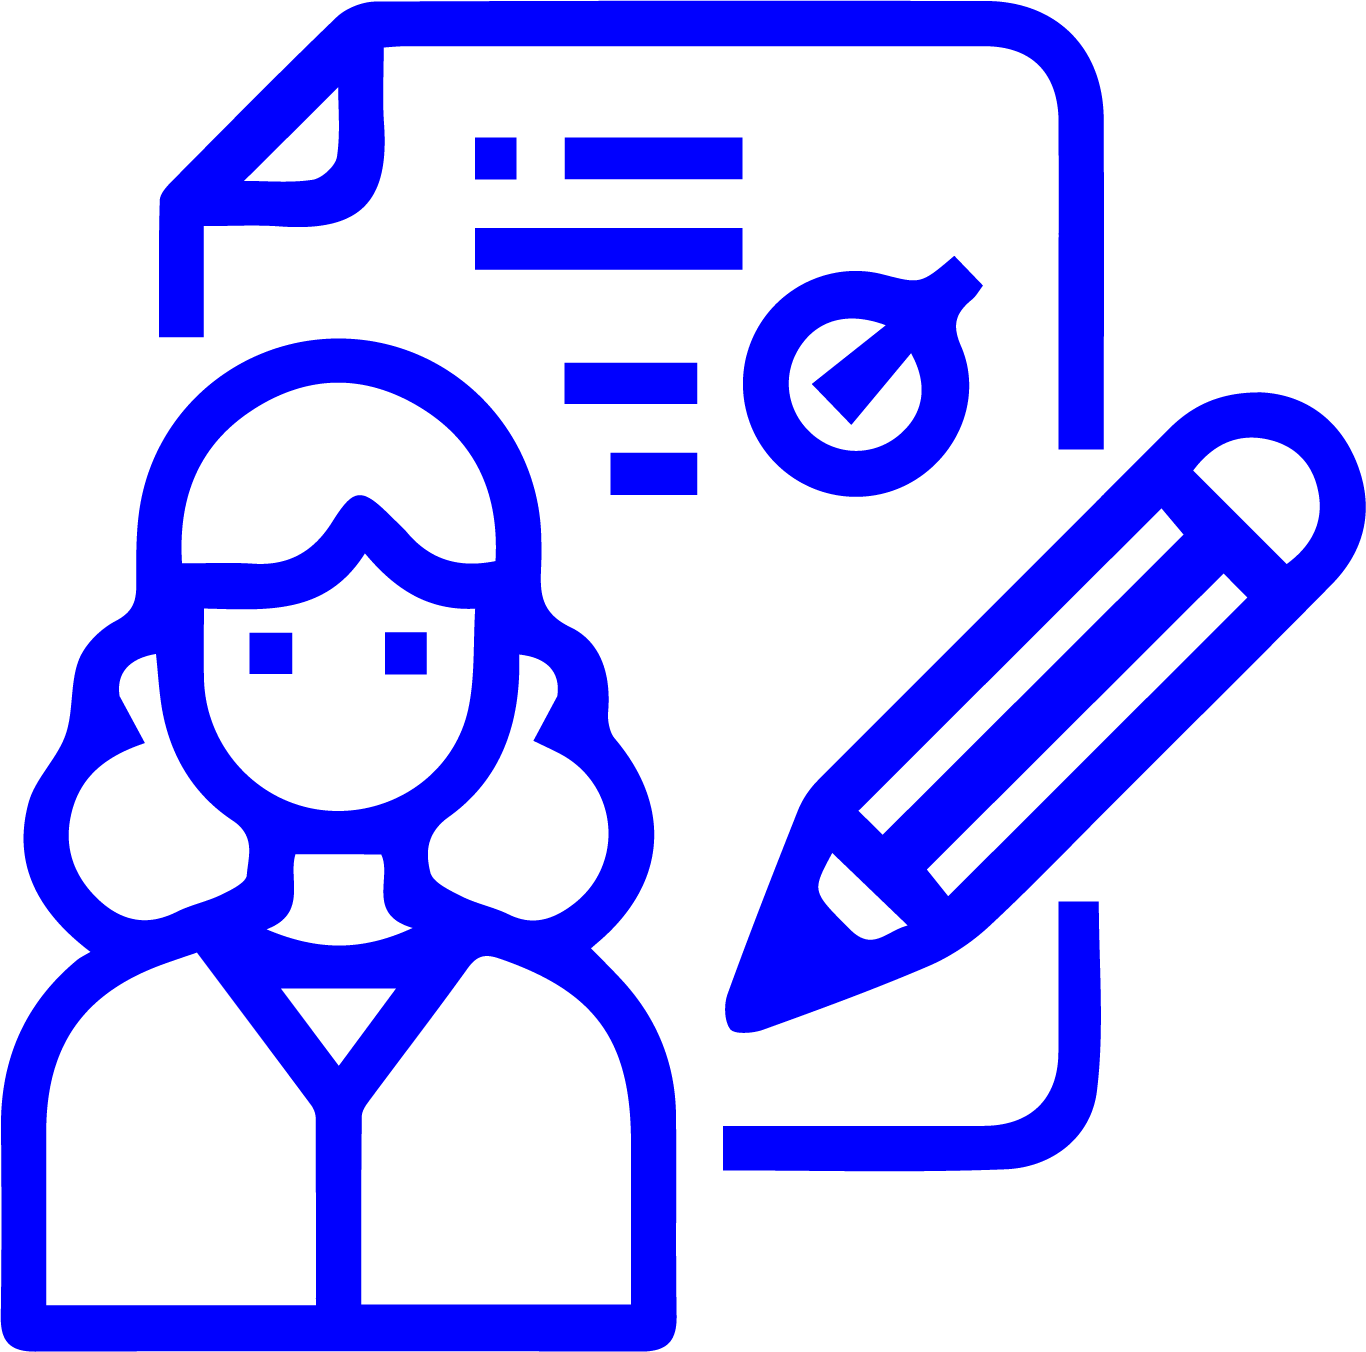
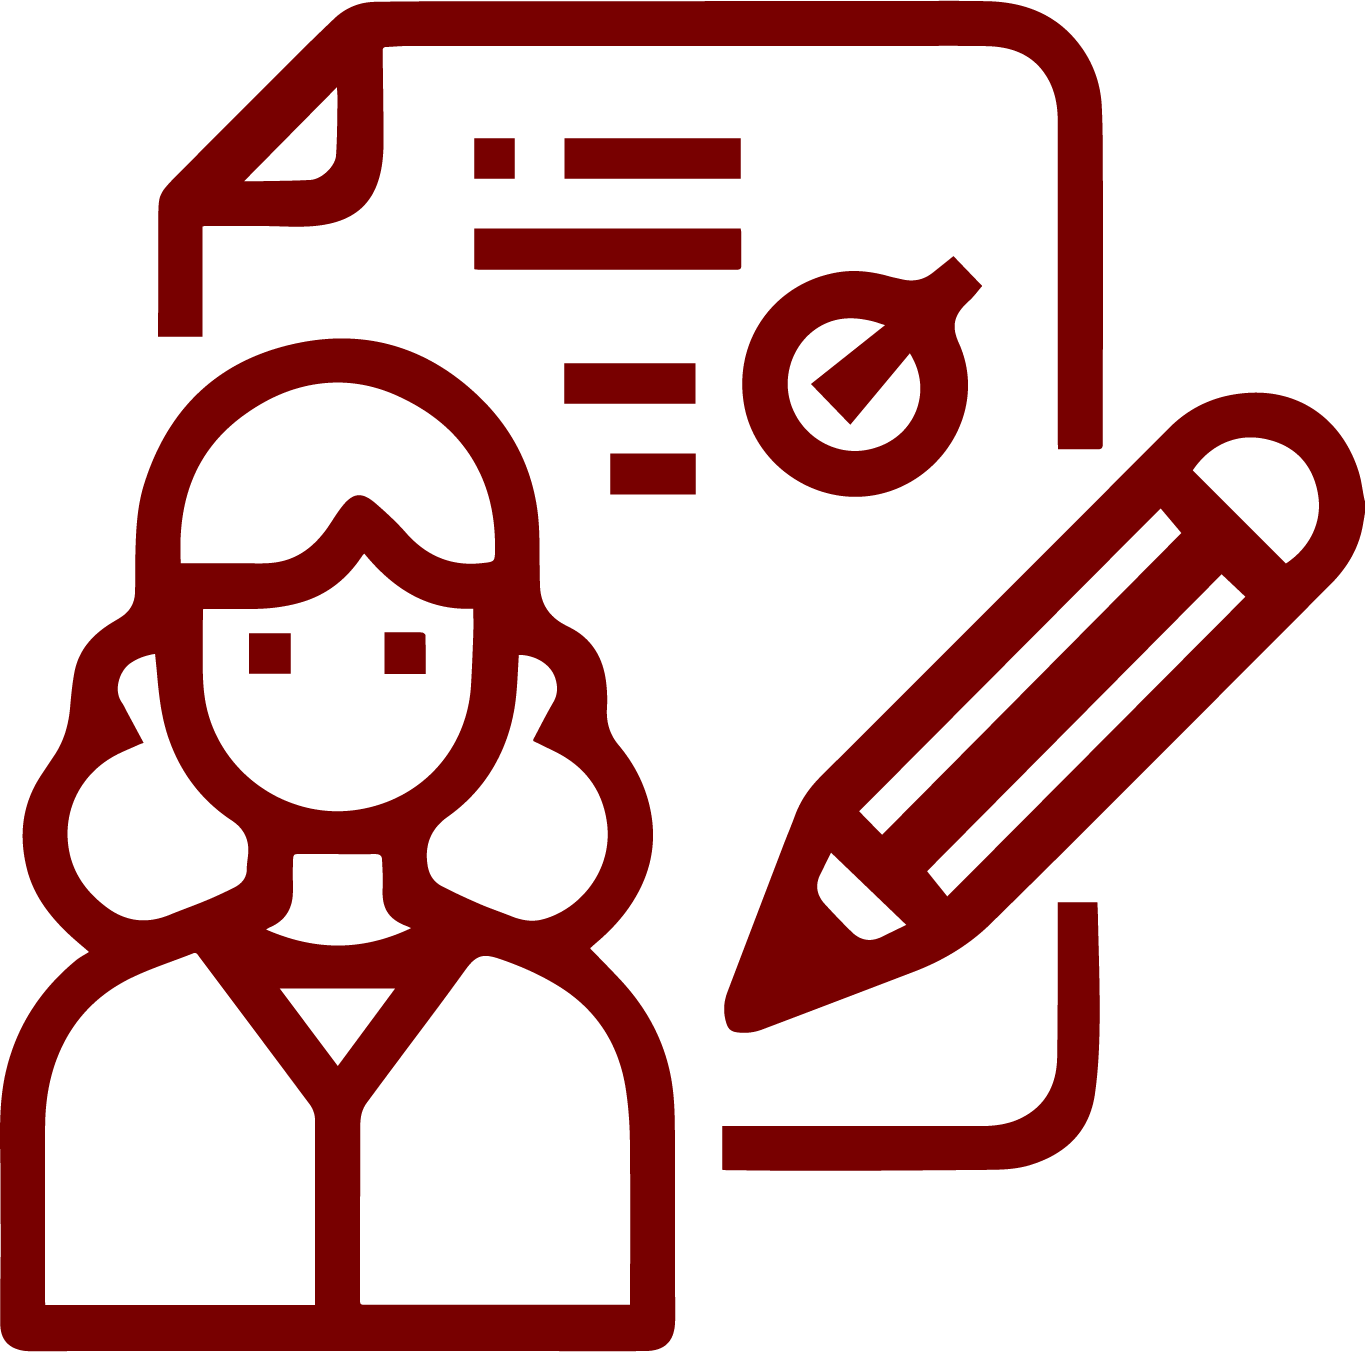
Se mejoraron los iconos del container marketing

Changed region(s): [[0.0, 0.0, 1.0, 1.0], [0.4, 0.1864, 0.7385, 0.3728], [0.3385, 0.0932, 0.5538, 0.2175]]

diff --git a/index.html b/index.html
@@ -198,7 +198,7 @@
       <div class="col-lg-4">
       				<picture>
       					<source srcset="img/Icono-Infografia.png" type="image/svg+xml">
-                                              <img src="img/Icono-Infografia.png" width="100" height="100"   class="img-fluid img-thumbnail"	 alt="...">
+                                              <img src="img/Icono-Infografia.png" width="100" height="100"   class="img-fluid"	 alt="...">
       					
       				</picture>
         <!--<svg class="bd-placeholder-img rounded-circle" width="140" height="140" xmlns="http://www.w3.org/2000/svg" preserveAspectRatio="xMidYMid slice" focusable="false" role="img" aria-label="Placeholder: 140x140"><title>Placeholder</title><rect width="100%" height="100%" fill="#777"/><text x="50%" y="50%" fill="#777" dy=".3em">140x140</text></svg>-->
@@ -207,9 +207,9 @@
         <p><a type="button" href="docs/Error.html" class="btn btn-outline-secondary">Ver Infografías</a></p>
       </div><!-- /.col-lg-4 -->
       <div class="col-lg-4">
-        <picture>
+        			<picture>
       					<source srcset="img/Icono-Play.png" type="image/svg+xml">
-                                              <img src="img/Icono-Play.png" width="100" height="100"  class="img-fluid img-thumbnail"	 alt="...">
+                                              <img src="img/Icono-Play.png" width="100" height="100"  class="img-fluid"	 alt="...">
       					
       				</picture>
         <h2>Tutoriales</h2>
@@ -219,7 +219,7 @@
       <div class="col-lg-4">
         <picture>
       					<source srcset="img/Icono-Tutor.png" type="image/svg+xml">
-                                              <img src="img/Icono-Tutor.png" width="100" height="100"  class="img-fluid img-thumbnail"	 alt="...">
+                                              <img src="img/Icono-Tutor.png" width="100" height="100"  class="img-fluid "	 alt="...">
       					
       				</picture>
         <h2>Tutorías</h2>
